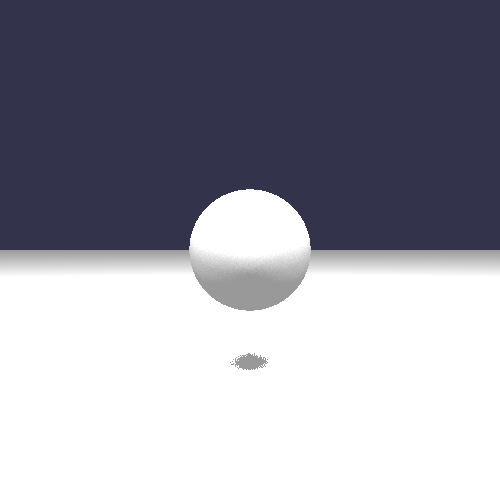
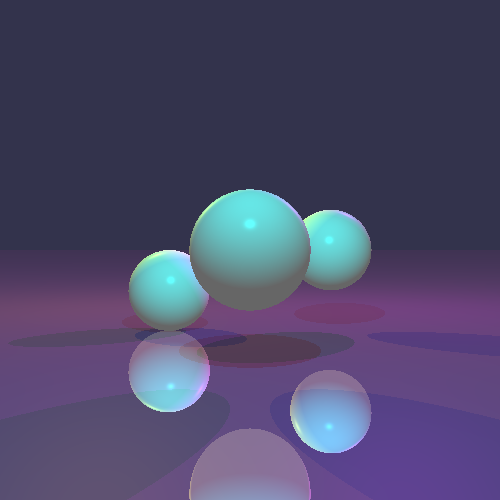
RCemoved libpng if not used

diff --git a/source/render.cpp b/source/render.cpp
@@ -1,7 +1,7 @@
 #include "render.hpp"
 
-#include "entis.h"
 #include <math.h>
+#include "entis.h"
 
 #include <chrono>
 #include <memory>
@@ -16,15 +16,15 @@
 
 #include <iostream>
 
-#define SINGLEPASS
-
 using namespace estl::base;
 
-unsigned max_depth = 10;
+unsigned max_depth = 5;
 double bias = 0.001;
 Vec3d eye, coi, up;
 ray::Color background_color = {0.2, 0.2, 0.3};
+#ifndef GRAPHICS
 ray::Png image;
+#endif
 
 void ray::Render(const std::vector<std::unique_ptr<Object>>& objs,
                  const std::vector<std::unique_ptr<Light>>& lights,
@@ -33,10 +33,10 @@ void ray::Render(const std::vector<std::unique_ptr<Object>>& objs,
   auto start = std::chrono::high_resolution_clock::now();
   double scale = tan(fov / 2.0);
   double aspect = width / static_cast<double>(height);
-  if (fmt == ESTL_PNG || fmt == PNG) {
-    std::cout << "Rendering " << width << "x" << height << " to img.png\n";
-    image = Png("img.png", width, height);
-  }
+#ifndef GRAPHICS
+  std::cout << "Rendering " << width << "x" << height << " to img.png\n";
+  image = Png("img.png", width, height);
+#endif
   switch (style) {
     case SINGLE_PASS: {
       RenderSinglePass(scale, aspect, width, height, objs, lights, fmt);
@@ -72,12 +72,11 @@ void ray::Render(const std::vector<std::unique_ptr<Object>>& objs,
       diff - sec - milli - micro);
   std::cout << sec.count() << "s " << milli.count() << "ms " << micro.count()
             << "μs " << nano.count() << "ns\n";
-  if (fmt == ESTL_PNG || fmt == PNG) {
-    image.Write();
-  }
-  if (fmt == ESTL_PNG || fmt == ESTL) {
-    entis_update();
-  }
+#ifdef GRAPHICS
+  entis_update();
+#else
+  image.Write();
+#endif
 }
 
 void ray::RenderSinglePass(const double& scale, const double& aspect,
@@ -89,13 +88,12 @@ void ray::RenderSinglePass(const double& scale, const double& aspect,
     for (unsigned j = 0; j < width; j += 1) {
       Color color =
           RenderPixel(scale, aspect, width, height, objs, lights, i, j);
-      if (fmt == ESTL || fmt == ESTL_PNG) {
-        entis_set_color_drgb(color.r, color.g, color.b);
-        entis_point(j, i);
-      }
-      if (fmt == PNG || fmt == ESTL_PNG) {
-        image.Plot(j, i, color.r, color.g, color.b);
-      }
+#ifdef GRAPHICS
+      entis_set_color_drgb(color.r, color.g, color.b);
+      entis_point(j, i);
+#else
+      image.Plot(j, i, color.r, color.g, color.b);
+#endif
     }
   }
 }
@@ -107,17 +105,16 @@ void ray::RenderHorizontalPass(
     for (unsigned j = 0; j < width; ++j) {
       Color color =
           RenderPixel(scale, aspect, width, height, objs, lights, i, j);
-      if (fmt == ESTL || fmt == ESTL_PNG) {
-        entis_set_color_drgb(color.r, color.g, color.b);
-        entis_point(j, i);
-      }
-      if (fmt == PNG || fmt == ESTL_PNG) {
-        image.Plot(j, i, color.r, color.g, color.b);
-      }
+#ifdef GRAPHICS
+      entis_set_color_drgb(color.r, color.g, color.b);
+      entis_point(j, i);
+#else
+      image.Plot(j, i, color.r, color.g, color.b);
+#endif
     }
-    if (fmt == ESTL || fmt == ESTL_PNG) {
-      entis_update();
-    }
+#ifdef GRAPHICS
+    entis_update();
+#endif
   }
 }
 void ray::RenderVerticalPass(const double& scale, const double& aspect,
@@ -129,17 +126,16 @@ void ray::RenderVerticalPass(const double& scale, const double& aspect,
     for (unsigned i = 0; i < height; ++i) {
       Color color =
           RenderPixel(scale, aspect, width, height, objs, lights, i, j);
-      if (fmt == ESTL || fmt == ESTL_PNG) {
-        entis_set_color_drgb(color.r, color.g, color.b);
-        entis_point(j, i);
-      }
-      if (fmt == PNG || fmt == ESTL_PNG) {
-        image.Plot(j, i, color.r, color.g, color.b);
-      }
+#ifdef GRAPHICS
+      entis_set_color_drgb(color.r, color.g, color.b);
+      entis_point(j, i);
+#else
+      image.Plot(j, i, color.r, color.g, color.b);
+#endif
     }
-    if (fmt == ESTL || fmt == ESTL_PNG) {
-      entis_update();
-    }
+#ifdef GRAPHICS
+    entis_update();
+#endif
   }
 }
 void ray::RenderScatterPass(const double& scale, const double& aspect,
@@ -154,17 +150,16 @@ void ray::RenderScatterPass(const double& scale, const double& aspect,
       unsigned i = (k - j) / width;
       Color color =
           RenderPixel(scale, aspect, width, height, objs, lights, i, j);
-      if (fmt == ESTL || fmt == ESTL_PNG) {
-        entis_set_color_drgb(color.r, color.g, color.b);
-        entis_point(j, i);
-      }
-      if (fmt == PNG || fmt == ESTL_PNG) {
-        image.Plot(j, i, color.r, color.g, color.b);
-      }
+#ifdef GRAPHICS
+      entis_set_color_drgb(color.r, color.g, color.b);
+      entis_point(j, i);
+#else
+      image.Plot(j, i, color.r, color.g, color.b);
+#endif
     }
-    if (fmt == ESTL || fmt == ESTL_PNG) {
-      entis_update();
-    }
+#ifdef GRAPHICS
+    entis_update();
+#endif
   }
 }
 
@@ -187,13 +182,12 @@ void ray::RenderMultiThreadPass(
   for (unsigned i = ppt * (passes - 1); i < height; ++i) {
     for (unsigned j = 0; j < width; ++j) {
       Color color = colors[pos];
-      if (fmt == ESTL || fmt == ESTL_PNG) {
-        entis_set_color_drgb(color.r, color.g, color.b);
-        entis_point(j, i);
-      }
-      if (fmt == PNG || fmt == ESTL_PNG) {
-        image.Plot(j, i, color.r, color.g, color.b);
-      }
+#ifdef GRAPHICS
+      entis_set_color_drgb(color.r, color.g, color.b);
+      entis_point(j, i);
+#else
+      image.Plot(j, i, color.r, color.g, color.b);
+#endif
       pos++;
     }
   }
@@ -203,20 +197,19 @@ void ray::RenderMultiThreadPass(
     for (unsigned i = ppt * id; i < ppt * (id + 1); ++i) {
       for (unsigned j = 0; j < width; ++j) {
         Color color = colors[pos];
-        if (fmt == ESTL || fmt == ESTL_PNG) {
-          entis_set_color_drgb(color.r, color.g, color.b);
-          entis_point(j, i);
-        }
-        if (fmt == PNG || fmt == ESTL_PNG) {
-          image.Plot(j, i, color.r, color.g, color.b);
-        }
+#ifdef GRAPHICS
+        entis_set_color_drgb(color.r, color.g, color.b);
+        entis_point(j, i);
+#else
+        image.Plot(j, i, color.r, color.g, color.b);
+#endif
         pos++;
       }
     }
   }
-  if (fmt == ESTL || fmt == ESTL_PNG) {
-    entis_update();
-  }
+#ifdef GRAPHICS
+  entis_update();
+#endif
 }
 std::vector<ray::Color> ray::RenderThread(
     const double& scale, const double& aspect, const unsigned& width,

diff --git a/source/main.cpp b/source/main.cpp
@@ -4,9 +4,9 @@
 #include "entis.h"
 #endif
 
-#define WIDTH 500
-#define HEIGHT 500
-#define RES 1
+#define WIDTH 800
+#define HEIGHT 800
+#define SAMPLES 4
 
 #include "light.hpp"
 #include "material.hpp"
@@ -14,35 +14,91 @@
 #include "png.hpp"
 #include "render.hpp"
 
+void scene_1(std::vector<std::unique_ptr<ray::Object>>& objs,
+             std::vector<std::unique_ptr<ray::Light>>& lights) {
+  ray::Material mirror({1.0, 1.0, 1.0}, 80.0, 1.0);
+  ray::Material mat({1.0, 1.0, 1.0}, 80.0, 0.0);
+
+  lights.push_back(ray::MakeAreaLight({-10.0, 5.0, 7.0}, {0.0, -1.0, 0.0}, 1.0,
+                                      1.0, SAMPLES, {1.0, 0.0, 0.0}));
+  lights.push_back(ray::MakeAreaLight({0.0, 5.0, 7.0}, {0.0, -1.0, 0.0}, 1.0,
+                                      1.0, SAMPLES, {0.0, 1.0, 0.0}));
+  lights.push_back(ray::MakeAreaLight({10.0, 5.0, 7.0}, {0.0, -1.0, 0.0}, 1.0,
+                                      1.0, SAMPLES, {0.0, 0.0, 1.0}));
+
+  objs.push_back(ray::GeneratePlane({0, -2, 0}, {0, 1, 0}, mat));
+  objs.push_back(ray::GeneratePlane({0, 0, 15}, {0, 0, -1}, mat));
+
+  objs.push_back(ray::GenerateSphere(1, mat));
+  objs.back()->Translate(-3, 0, 10);
+  objs.push_back(ray::GenerateSphere(1, mat));
+  objs.back()->Translate(3, 0, 10);
+  objs.push_back(ray::GenerateSphere(1, mirror));
+  objs.back()->Translate(0, 0, 10);
+}
+
+void scene_2(std::vector<std::unique_ptr<ray::Object>>& objs,
+             std::vector<std::unique_ptr<ray::Light>>& lights) {
+  ray::Material mirror({1.0, 1.0, 1.0}, 80.0, 1.0);
+  ray::Material mat({1.0, 1.0, 1.0}, 80.0, 0.0);
+
+  lights.push_back(ray::MakeAreaLight({0.0, 50.0, 10.0}, {0.0, -1.0, 0.0}, 10.0,
+                                      10.0, SAMPLES, {1.0, 1.0, 1.0}));
+
+  objs.push_back(ray::GeneratePlane({0, -2, 0}, {0, 1, 0}, mat));
+  objs.push_back(ray::GeneratePlane({0, 0, 20}, {0, 0, -1}, mirror));
+  objs.push_back(ray::GeneratePlane({0, 0, -.1}, {0, 0, 1}, mirror));
+
+  for (unsigned i = 0; i <= 20; i += 5) {
+    ray::Material a({ray::Rand(0, 1), ray::Rand(0, 1), ray::Rand(0, 1)},
+                    ray::Rand(10, 100), ray::Rand(0.0, 0.2));
+    ray::Material b({ray::Rand(0, 1), ray::Rand(0, 1), ray::Rand(0, 1)},
+                    ray::Rand(10, 100), ray::Rand(0.0, 0.2));
+    objs.push_back(ray::GenerateSphere(1, a));
+    objs.back()->Translate(-3, 0, i);
+    objs.push_back(ray::GenerateSphere(1, b));
+    objs.back()->Translate(3, 0, i);
+  }
+}
+
+void scene_3(std::vector<std::unique_ptr<ray::Object>>& objs,
+             std::vector<std::unique_ptr<ray::Light>>& lights) {
+  ray::Material mirror({1.0, 1.0, 1.0}, 80.0, 1.0);
+  ray::Material mat({1.0, 1.0, 1.0}, 80.0, 0.0);
+
+  lights.push_back(ray::MakeAreaLight({10.0, 2.0, 20.0}, {-1.0, 0.0, 0.0}, 1.0,
+                                      1.0, SAMPLES, {1.0, 0.0, 0.0}));
+  lights.push_back(ray::MakeAreaLight({-10.0, 2.0, 20.0}, {1.0, 0.0, 0.0}, 1.0,
+                                      1.0, SAMPLES, {0.0, 0.0, 1.0}));
+  objs.push_back(ray::GeneratePlane({0, -1, 0}, {0, 1, 0}, mat));
+  objs.push_back(ray::GeneratePlane({0, 0, 60}, {0, 0, -1}, mat));
+
+  for (unsigned i = 0; i <= 50; i += 5) {
+    objs.push_back(ray::GenerateSphere(1, mat));
+    objs.back()->Translate(-3, 0, i);
+    objs.push_back(ray::GenerateSphere(1, mat));
+    objs.back()->Translate(3, 0, i);
+  }
+}
 
 int main(int argc, char const* argv[]) {
   srand(time(NULL));
-  ray::Material mat({1.0, 1.0, 1.0}, 80.0, 0.0);
-  ray::Material surf({1.0, 1.0, 1.0}, 80.0, 0.0);
-  ray::Material refl({1.0, 0.5, 1.0}, 30.0, 0.75);
   std::vector<std::unique_ptr<ray::Object>> objs;
   std::vector<std::unique_ptr<ray::Light>> lights;
-  lights.push_back(ray::MakePointLight({-5.0, 5.0, 20.0}, {1.0, 1.0, 0.0}));
-  lights.push_back(ray::MakePointLight({5.0, 5.0, 20.0}, {1.0, 0.0, 1.0}));
-  lights.push_back(ray::MakePointLight({0.0, 5.0, 5.0}, {0.0, 1.0, 1.0}));
-  // lights.push_back(ray::MakeAreaLight({0.0, 10.0, 5.0}, {0.0, -1.0, 0.0}, 1.0, 1.0, 1, {1.0, 1.0, 1.0}));
-  // lights.push_back(ray::MakeAreaLight({5.0, 10.0, 5.0}, {0.0, -1.0, 0.0}, 1.0, 1.0, 1, {1.0, 1.0, 1.0}));
-  // lights.push_back(ray::MakeAreaLight({-5.0, 10.0, 5.0}, {0.0, -1.0, 0.0}, 1.0, 1.0, 1, {1.0, 1.0, 1.0}));
-  // lights.push_back(ray::MakeAreaLight({5.0, 20.0, 10.0}, {1.0, 1.0, 1.0}));
-  // lights.push_back(ray::MakePointLight({0.0, 5.0, 0.0}, {1.0, 1.0, 1.0}));
-  objs.push_back(ray::GeneratePlane({0, -2, 0}, {0.0, 1.0, 0.0}, refl));
-  objs.push_back(ray::GenerateSphere(1, mat));
-  objs.back()->Translate(0, 0, 10);
-  objs.push_back(ray::GenerateSphere(1, mat));
-  objs.back()->Translate(2, 0, 15);
-  objs.push_back(ray::GenerateSphere(1, mat));
-  objs.back()->Translate(-2, -1, 15);
+
+  // SELECT SAMPLE IMAGE
+  scene_1(objs, lights);
+  // scene_2(objs, lights);
+  // scene_3(objs, lights);
 
 #ifdef GRAPHICS
   entis_init("Ray", WIDTH, HEIGHT, 0, NULL);
   entis_clear();
+  // ray::Render(objs, lights, WIDTH, HEIGHT, M_PI / 4.0, ray::ESTL,
+  //             ray::SCATTER_PASS, 31);
+  // Uncomment this for faster preformance, but no live preview.
   ray::Render(objs, lights, WIDTH, HEIGHT, M_PI / 4.0, ray::ESTL,
-              ray::SCATTER_PASS, 31);
+              ray::MULTI_THREAD, 8);
   entis_wait_button();
   entis_term();
 #else

diff --git a/include/png.hpp b/include/png.hpp
@@ -1,6 +1,8 @@
 #ifndef RAY_PNG_HPP_
 #define RAY_PNG_HPP_
 
+#ifndef GRAPHICS
+
 #include <string>
 #include <vector>
 
@@ -29,4 +31,5 @@ class Png {
   unsigned char** pixel_data_;
 };
 }  // namespace ray
+#endif
 #endif  // RAY_PNG_HPP_

diff --git a/source/png.cpp b/source/png.cpp
@@ -1,3 +1,4 @@
+#ifndef GRAPHICS
 #include "png.hpp"
 
 #include <png.h>
@@ -115,3 +116,4 @@ bool ray::Png::Write() {
 
   return true;
 }
+#endif
